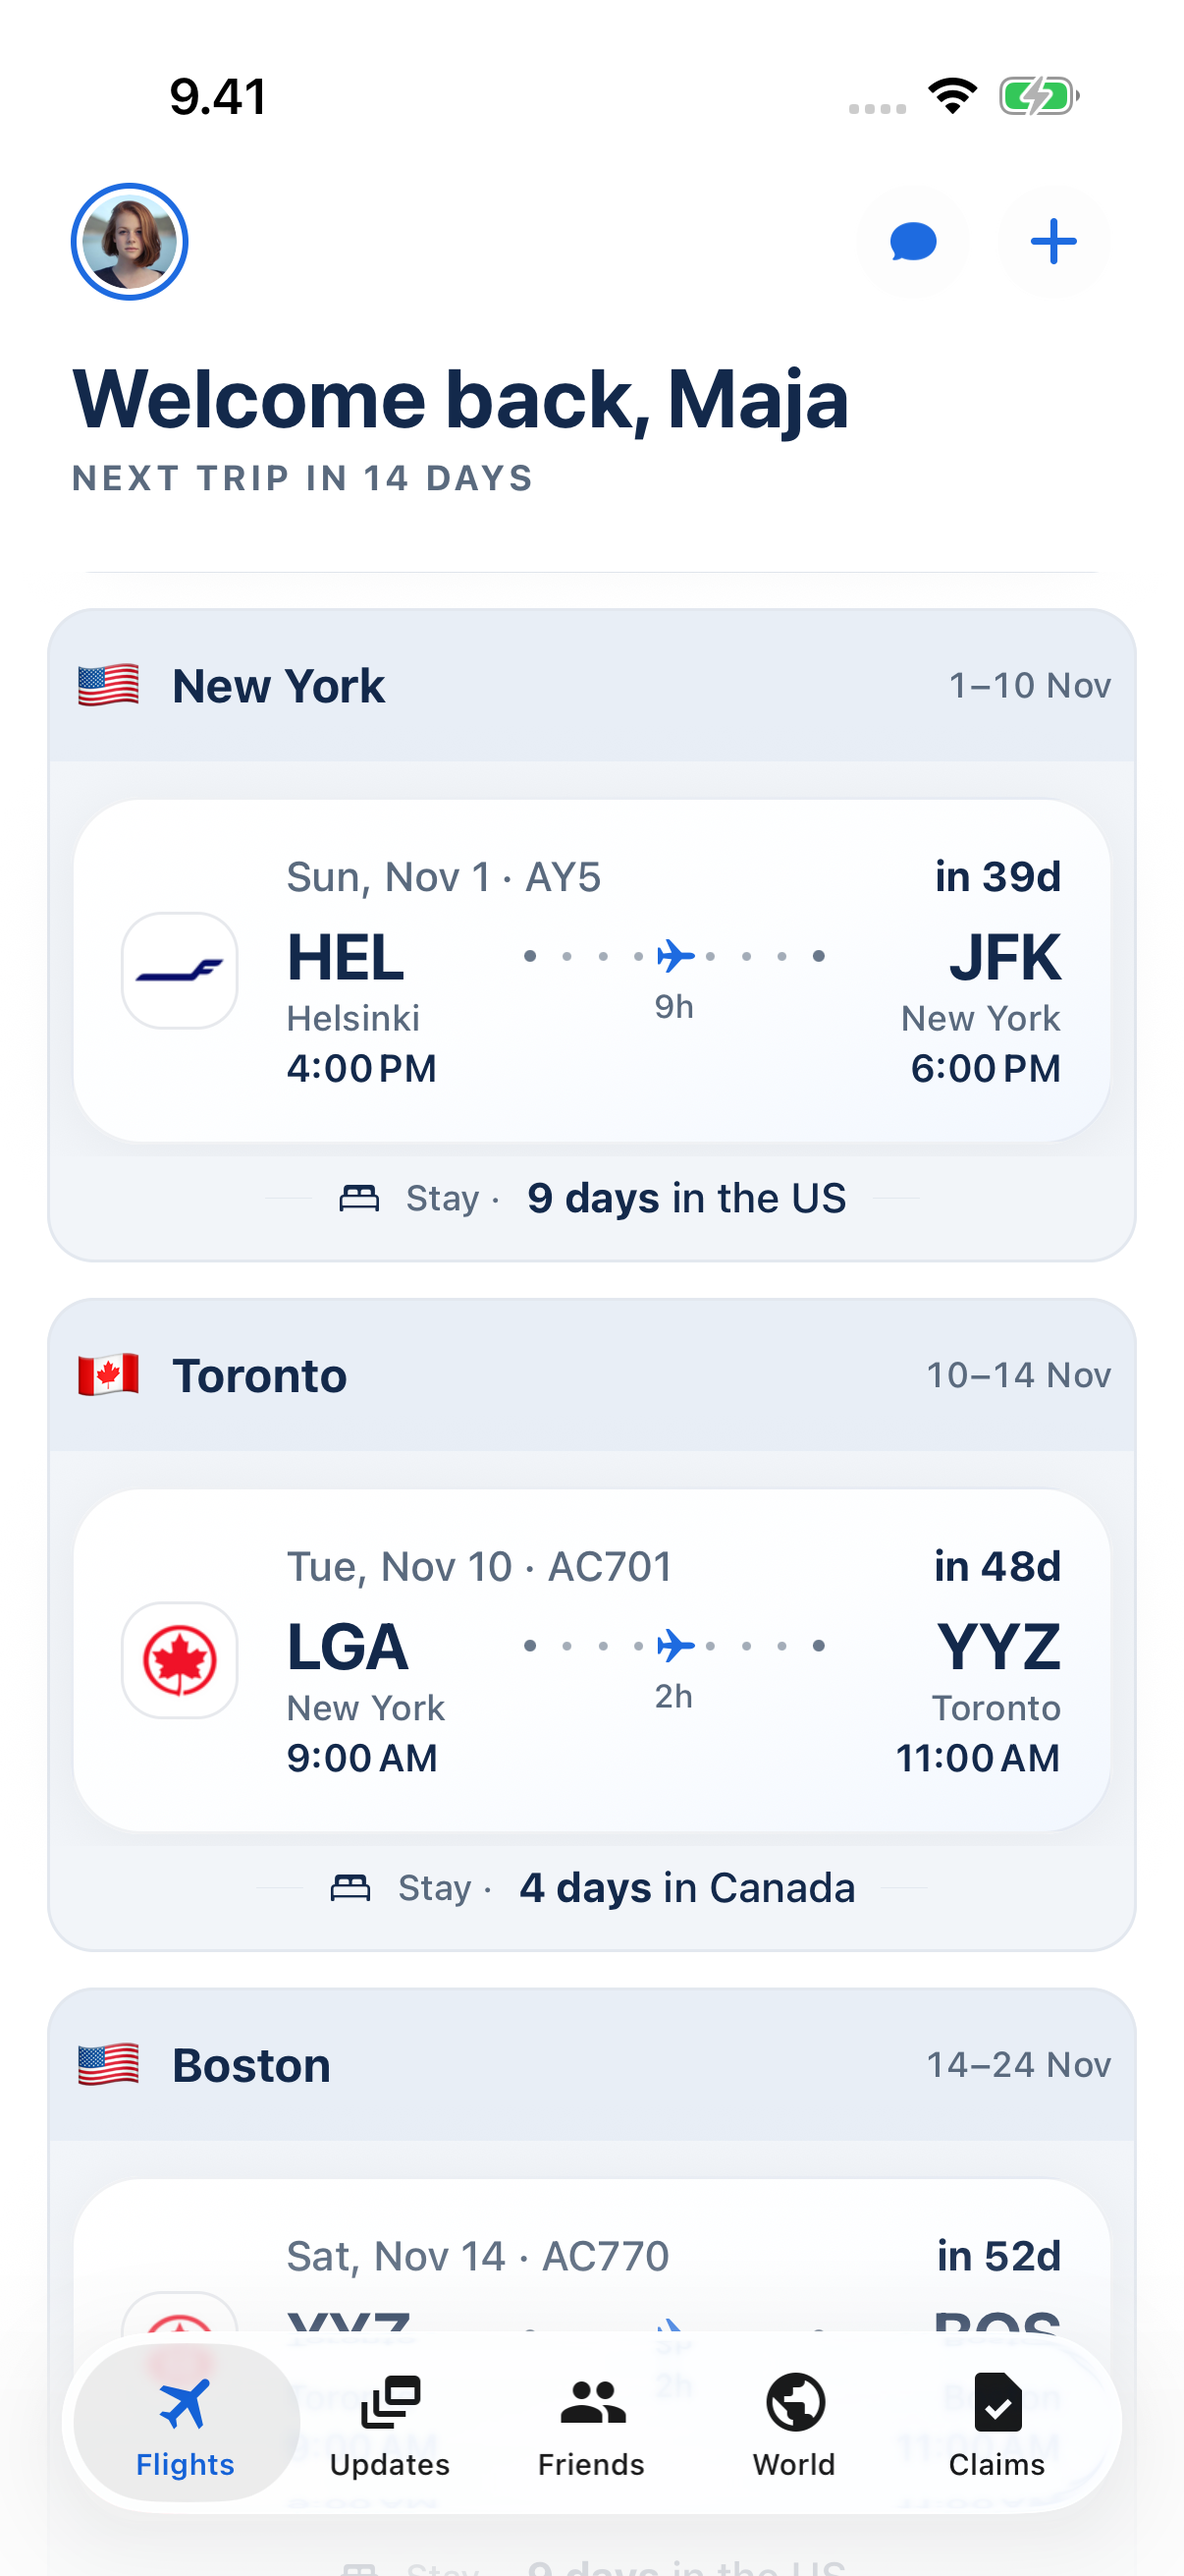
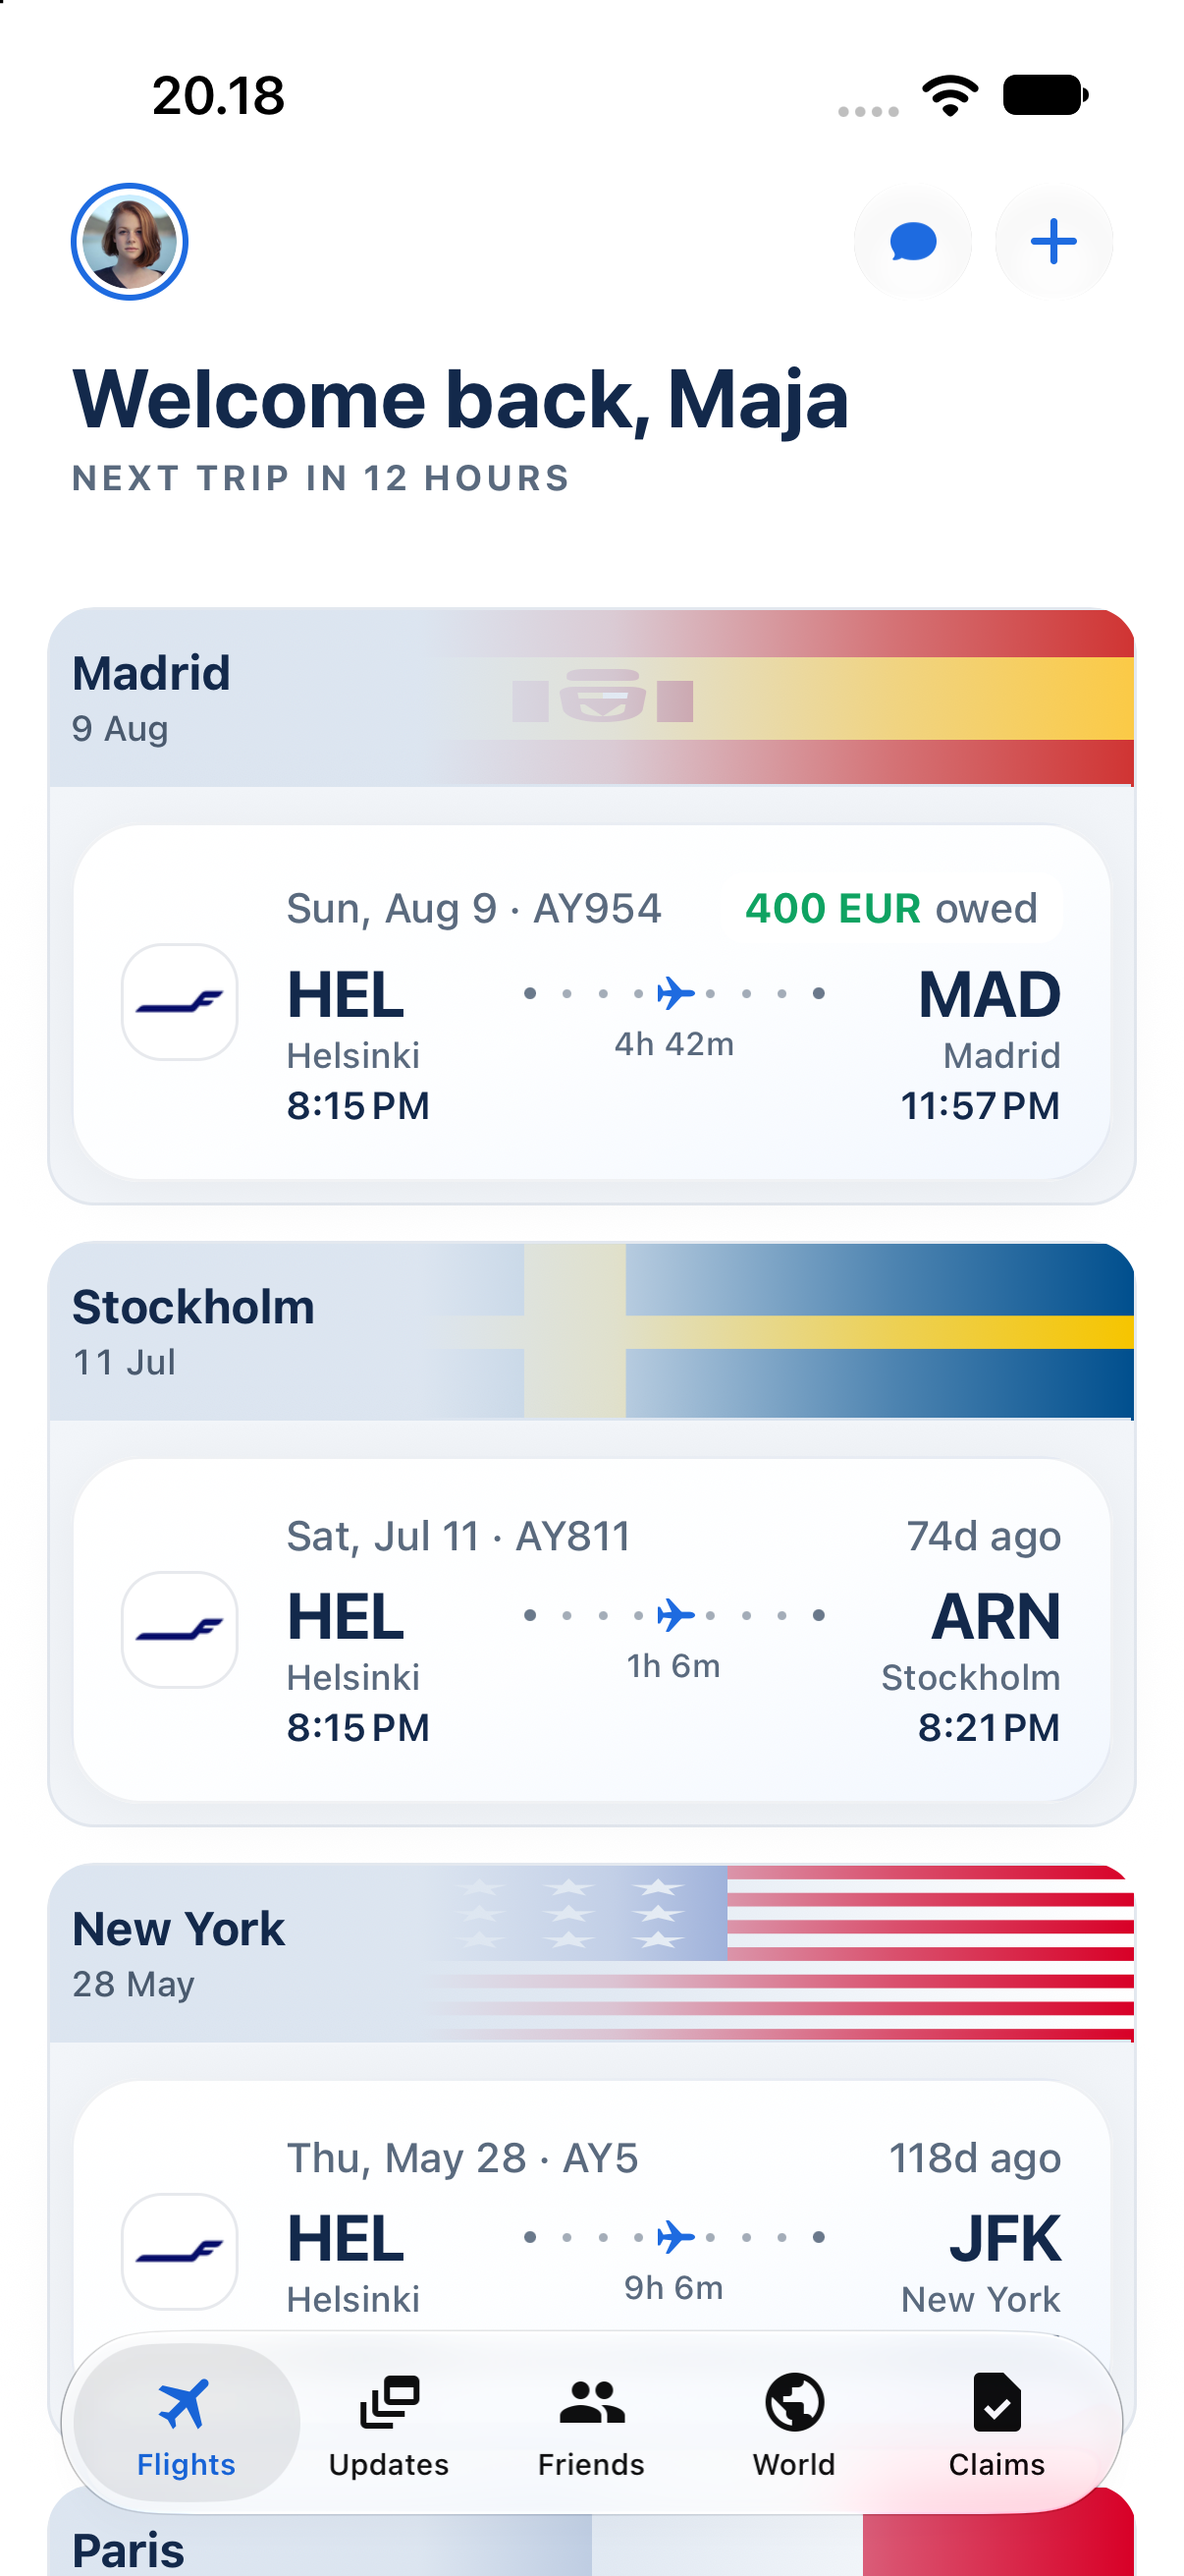
Ship the grouping work as build 66/63
Adds the past-trip ordering, placeholder-arrival, coarser-countdown and
follower-grouping changes to the 1.1.3 notes, and moves the build numbers past
the flag-header-only binaries already in App Store Connect (65) and Play
internal (62), which predate all of them.

Refreshes the iPhone Flights listing shot from the Release build, the one
listing panel that shows a trip heading.

diff --git a/src/constants/release-notes.ts b/src/constants/release-notes.ts
@@ -23,6 +23,8 @@ export const RELEASE_NOTES: ReleaseNote[] = [
       'Browse Pro plans before signing in, then return to your chosen plan after creating an account or signing in. Continuing free keeps your flights saved.',
       'Trip headings now use destination cities, so different stops in the same country are easier to tell apart.',
       "Each trip heading carries its country's flag, faded across the heading, with the dates beneath the city name.",
+      'Past trips read newest first the whole way down, including each destination within a single trip.',
+      'A flight saved without a real arrival time no longer splits a trip into pieces or hides how long you stayed at each stop.',
       'Connected flights sit in clearer trip groups, with the first live flight expanded and later travel-day cards linked to the right flight.',
       'Adding the same flight again, including from a codeshare boarding pass, updates the saved flight instead of creating a duplicate.',
     ],
